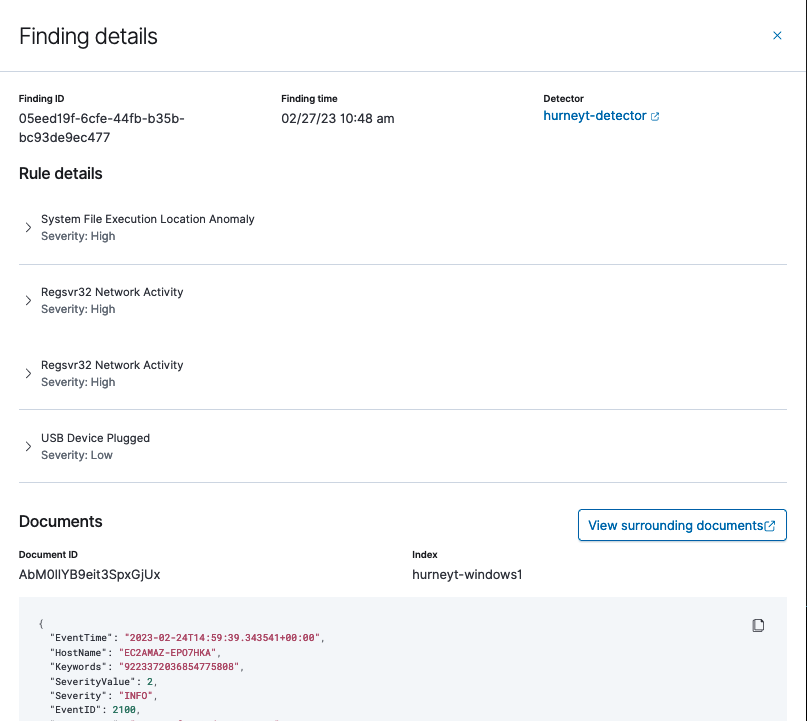
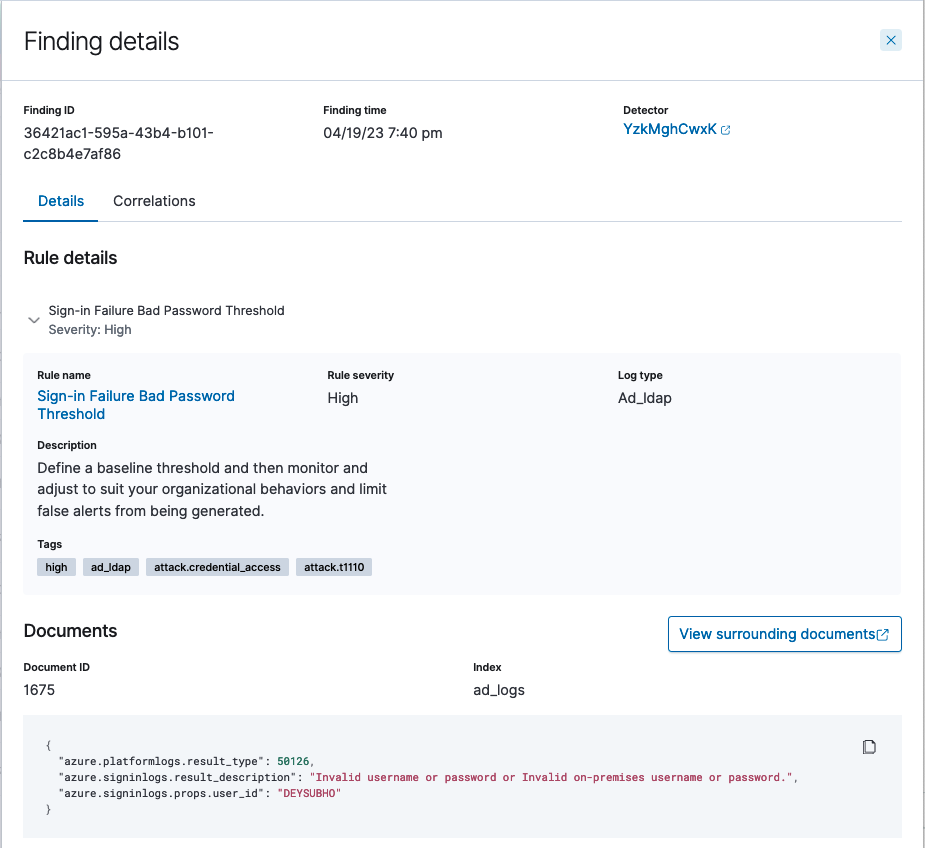
fix#3566 correlation engine

diff --git a/_security-analytics/usage/findings.md b/_security-analytics/usage/findings.md
@@ -48,15 +48,17 @@ The **Findings** list displays all findings according to the time of the finding
 Use the **Rule severity** dropdown list to filter the list of findings by severity. Use the **log type** dropdown list to filter the list by log type.
 
 The **Actions** column includes two options for each finding:
-* The diagonal arrow provides a way to open the **Finding details** pane, which describes the finding by parameters defined when creating the detector and includes the document that generated the finding.
+* The diagonal arrow provides a way to open the [**Finding details**](#finding-details) pane, which describes the finding by parameters defined when creating the detector and includes the document that generated the finding.
 * The bell icon allows you to open the **Create detector alert trigger** pane, where you can quickly set up an alert for the specific finding and modify rules and their conditions as required.
 For details on setting up an alert, see [Step 3. Set up alerts]({{site.url}}{{site.baseurl}}/security-analytics/sec-analytics-config/detectors-config/#step-3-set-up-alerts) in detector creation documentation.
+
+### Finding details
 
 Each finding in the list also includes a **Finding ID**. In addition to using the diagonal arrow in **Actions**, you can select the ID to open the **Finding details** pane. An example of **Finding details** is shown in the following image.
 
 <img src="{{site.url}}{{site.baseurl}}/images/Security/findings1.png" alt="Finding details pane" width="60%">
 
-### Viewing surrounding documents
+#### Viewing surrounding documents
 
 The **Finding details** pane contains specific information about the finding, including the document that generated the finding. To investigate the series of events that led to the finding or followed the finding, you can select **View surrounding documents** to open the document in the **Discover** panel and view other documents preceding or following it.
 
@@ -73,3 +75,14 @@ The **Finding details** pane contains specific information about the finding, in
 The **Discover** panel displays the document that generated the finding with a highlighted background. Other documents that came either before or after the event are also displayed.
 
 For details about working with **Discover** in OpenSearch Dashboards, see [Exploring data]({{site.url}}{{site.baseurl}}/dashboards/discover/index-discover/).
+
+#### Viewing correlations
+
+Correlations between findings are generated by the correlation engine, which is an experimental feature released in OpenSearch 2.7. Therefore, we do not recommend using the feature in a production environment at this time. For updates on the progress of correlation engine, see [Security Analytics Correlation Engine](https://github.com/opensearch-project/security-analytics/issues/369) at GitHub. To share ideas and provide feedback, join the [Security Analytics forum](https://forum.opensearch.org/c/plugins/security-analytics/73).
+{: .warning }
+
+To see how the finding is correlated with others, select the **Correlations** tab. Correlations are relationships between findings that express a particular threat scenario involving multiple log types. Information in the **Correlated findings** table shows the time at which a correlated finding was generated, a finding's ID, the log type used to generate the finding, its threat severity, and the correlation score, a measure of its proximity to the reference finding.
+
+<img src="{{site.url}}{{site.baseurl}}/images/Security/corr-details-findings.png" alt="A table of correlated findings with respect to the reference finding" width="60%">
+
+You can select **View correlations graph** to visualize correlations between the findings. For more information about using the correlation graph, see [Working with the correlation graph]({{site.url}}{{site.baseurl}}/security-analytics/usage/correlation-graph/).

diff --git a/_security-analytics/usage/correlation-graph.md b/_security-analytics/usage/correlation-graph.md
@@ -10,7 +10,7 @@ nav_order: 45
 The correlation engine is an experimental feature released in OpenSearch 2.7. Therefore, we do not recommend using the feature in a production environment at this time. For updates on the progress of correlation engine, see [Security Analytics Correlation Engine](https://github.com/opensearch-project/security-analytics/issues/369) at GitHub. To share ideas and provide feedback, join the [Security Analytics forum](https://forum.opensearch.org/c/plugins/security-analytics/73).
 {: .warning }
 
-The correlation graph is a security findings knowledge graph. It provides a visualization for information generated by the correlation engine and allows you to focus on specific correlations and inspect them in greater detail. Information in the graph includes findings by log type, severity levels for the findings, the correlations drawn between findings, and the relevance of the correlations, among other details. You can also manipulate the graph to gain further insights into specific events of interest. This includes setting a date range for findings and their correlations, zooming in on the relationship between specific findings, and filtering by log type and severity level. Use this section to learn more about using the graph. 
+The correlation graph is a security findings knowledge graph. It provides a visualization for information generated by the correlation engine and allows you to focus on specific correlations and inspect them in greater detail. Information in the graph includes findings by log type, the severity levels for the findings, the correlations drawn between findings, and the relevance of the correlations, among other details. You can also manipulate the graph to gain further insights into specific events of interest. This includes filtering findings by date and time, zooming in on the relationship between specific findings and their correlations, and filtering by log type and severity level. Use this section to learn more about using the graph. 
 
 ## Acccessing the graph
 

diff --git a/_security-analytics/sec-analytics-config/correlation-config.md b/_security-analytics/sec-analytics-config/correlation-config.md
@@ -10,7 +10,7 @@ nav_order: 16
 The correlation engine is an experimental feature released in OpenSearch 2.7. Therefore, we do not recommend using the feature in a production environment at this time. For updates on the progress of correlation engine, see [Security Analytics Correlation Engine](https://github.com/opensearch-project/security-analytics/issues/369) at GitHub. To share ideas and provide feedback, join the [Security Analytics forum](https://forum.opensearch.org/c/plugins/security-analytics/73).
 {: .warning }
 
-Correlation rules allow you to define threat scenarios involving multiple systems in an infrastructure by relating potential events of interest in the logs of individual systems and making connections between their findings. Once the rule contains at least two different log sources and the preferred fields and field values that define an intended threat secenario, the correlation engine can query the indexes specified in the correlation rule and draw any correlations found between the findings.
+Correlation rules allow you to define threat scenarios involving multiple systems in an infrastructure by matching the signatures of threat events occuring in different log types. Once a rule contains at least two different log sources and the preferred fields and field values that define an intended threat secenario, the correlation engine can query the indexes specified in the correlation rule and draw any correlations found between the findings.
 
 
 ## Configuring rules
@@ -37,6 +37,8 @@ The Cluster Settings API allows you to set a window of time to focus the correla
 
 ### Example request
 
+The following PUT call sets the time window.
+
 ```json
 PUT /_cluster/settings
 {
@@ -48,6 +50,8 @@ PUT /_cluster/settings
 {% include copy-curl.html %}
 
 ### Example response
+
+The response confirms the call was acknowledged and successful.
 
 ```json
 {
